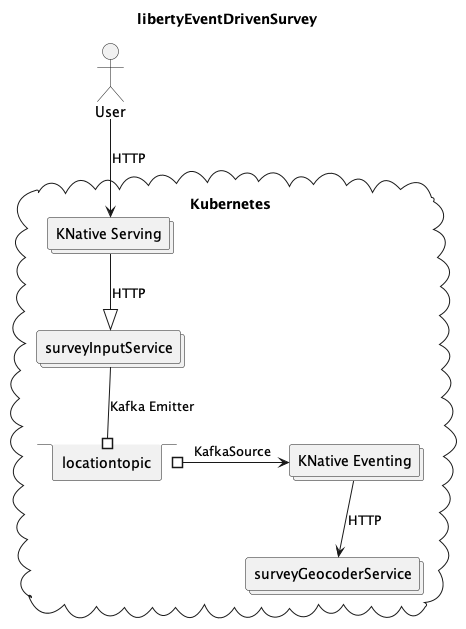
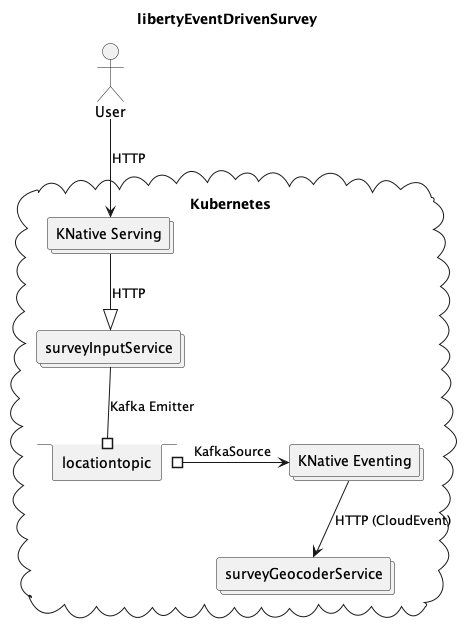
Add StringDeserializer

Changed region(s): [[0.4807, 0.7854, 0.9614, 0.9666]]

diff --git a/surveyGeocoderService/src/main/java/com/example/demo/reactive/CloudEventsProcessor.java b/surveyGeocoderService/src/main/java/com/example/demo/reactive/CloudEventsProcessor.java
@@ -3,11 +3,11 @@ package com.example.demo.reactive;
 import java.util.logging.Level;
 import java.util.logging.Logger;
 
+import org.apache.kafka.common.serialization.StringDeserializer;
+
 import io.cloudevents.CloudEvent;
 import io.cloudevents.CloudEventData;
 import jakarta.enterprise.context.RequestScoped;
-import jakarta.json.bind.Jsonb;
-import jakarta.json.bind.JsonbBuilder;
 import jakarta.ws.rs.POST;
 import jakarta.ws.rs.Path;
 import jakarta.ws.rs.Produces;
@@ -22,7 +22,7 @@ public class CloudEventsProcessor {
 
 	@Path("locationInput")
 	@POST
-    @Produces(MediaType.APPLICATION_JSON)
+	@Produces(MediaType.APPLICATION_JSON)
 	public Response locationInput(CloudEvent incoming) {
 		if (LOG.isLoggable(Level.FINER))
 			LOG.entering(CLASS_NAME, "locationInput", incoming);
@@ -30,17 +30,23 @@ public class CloudEventsProcessor {
 		if (LOG.isLoggable(Level.INFO))
 			LOG.info("Received CloudEvent: " + incoming);
 
-		Jsonb jsonb = JsonbBuilder.create();
 		CloudEventData data = incoming.getData();
-		
+
 		if (LOG.isLoggable(Level.INFO))
 			LOG.info("CloudEventData: " + data);
-		
+
+		try (StringDeserializer deserializer = new StringDeserializer()) {
+			String location = deserializer.deserialize(null, data.toBytes());
+
+			if (LOG.isLoggable(Level.INFO))
+				LOG.info("Input location: " + location);
+		}
+
 		Response result = Response.ok().build();
-		
+
 		if (LOG.isLoggable(Level.FINER))
 			LOG.exiting(CLASS_NAME, "locationInput", result);
-		
+
 		return result;
 	}
 }

diff --git a/README.md b/README.md
@@ -27,7 +27,12 @@
 
 ### Deploy to OpenShift
 
+#### Pre-requisities
+
 1. Ensure the [internal registry is available](https://publib.boulder.ibm.com/httpserv/cookbook/Troubleshooting_Recipes-Troubleshooting_OpenShift_Recipes-OpenShift_Use_Image_Registry_Recipe.html)
+
+#### Deploy surveyInputService
+
 1. Push `surveyInputService` to the registry:
    ```
    REGISTRY=$(oc get route default-route -n openshift-image-registry --template='{{ .spec.host }}')
@@ -76,6 +81,9 @@
    ```
    oc exec -it $(oc get pod -o name | grep surveyinputservice) -c surveyinputservice -- cat /logs/messages.log
    ```
+
+#### Deploy surveyGeocoderService
+
 1. Push `surveyGeocoderService` to the registry:
    ```
    REGISTRY=$(oc get route default-route -n openshift-image-registry --template='{{ .spec.host }}')
@@ -146,6 +154,9 @@
    ```
    kn source kafka describe locationtopicsource
    ```
+
+#### Test
+
 1. Print and open the URL of `surveyInputService`:
    ```
    kn service list surveyinputservice -o jsonpath="{.items[0].status.url}{'\n'}"
